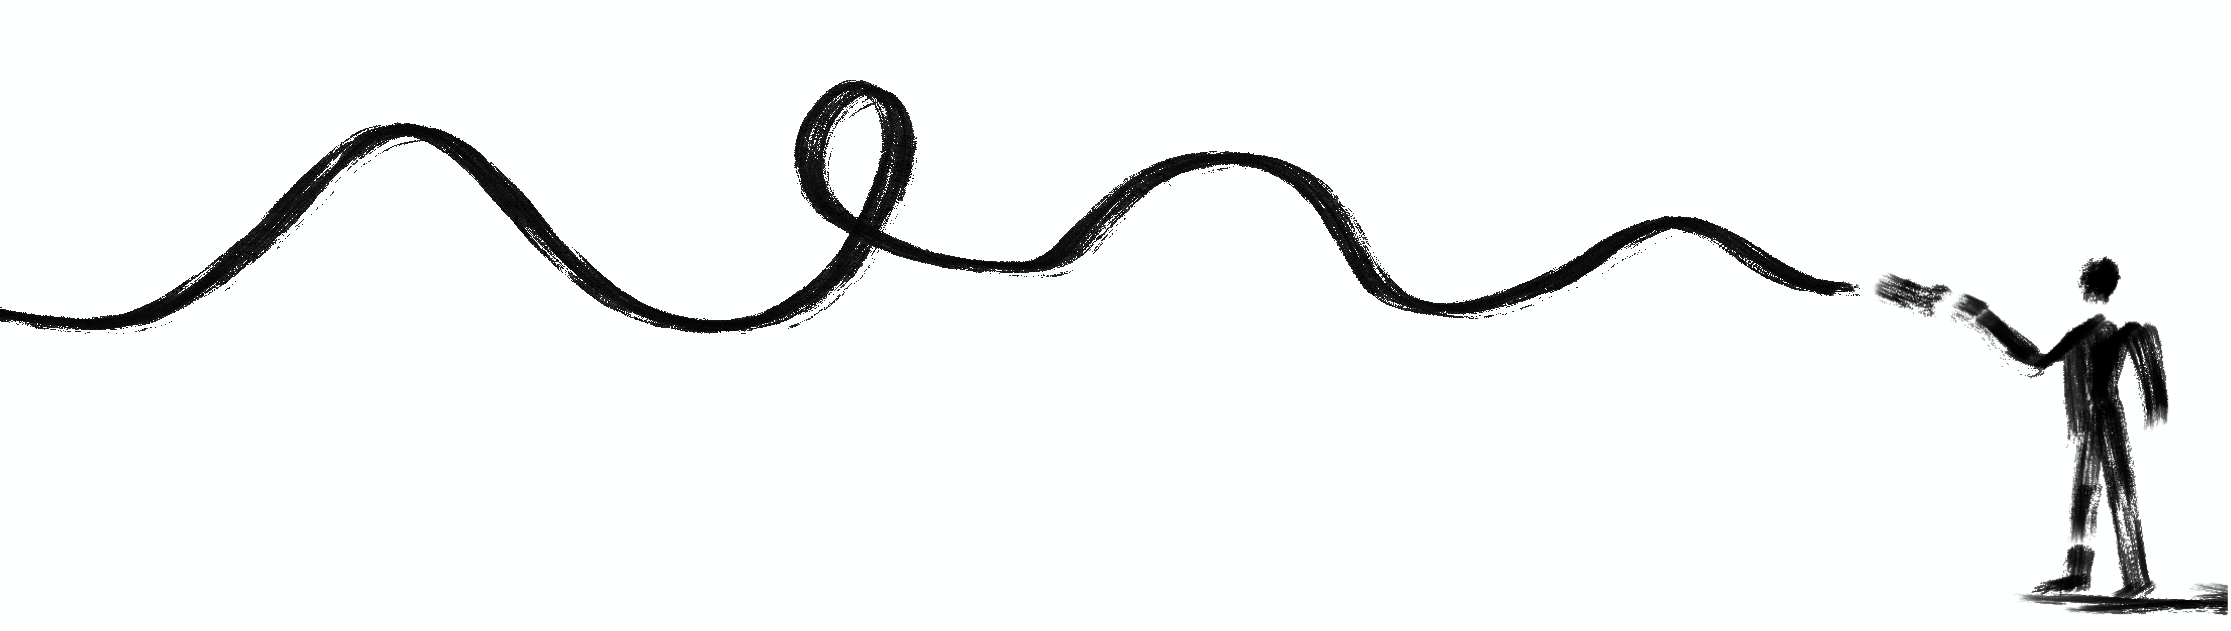
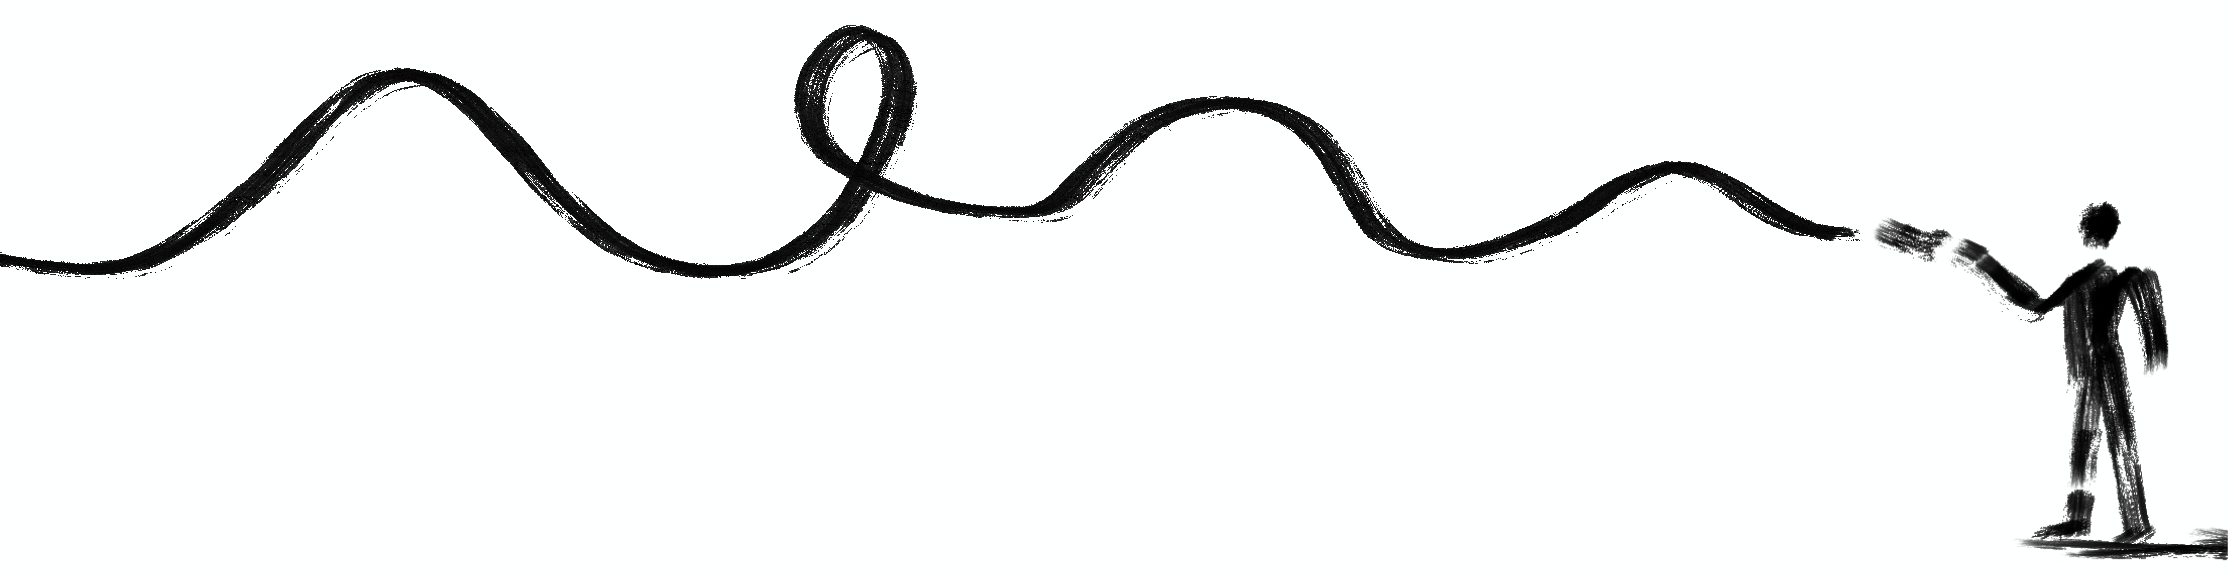
Fix landing image

Changed region(s): [[0.0, 0.0312, 1.0, 1.0]]

diff --git a/index.html b/index.html
@@ -346,12 +346,12 @@
     <header class="relative bg-white pb-16 sm:pb-24">
         <!-- Illustration → always full‑width, fixed height on small screens  -->
         <div class="no-select">
-            <img src="./assets/man_drawing.png" alt="Workshop Illustration" class="w-full object-cover h-56 sm:h-72 md:h-[28rem]" />
+            <img src="./assets/man_drawing.png" alt="Workshop Illustration" class="w-full max-h-[28rem] object-contain mx-auto" />
         </div>
 
 
         <!-- Headline content → centered overlay  -->
-        <div class="container mx-auto px-4 sm:px-6 relative -mt-20 sm:-mt-48">
+        <div class="container mx-auto px-4 sm:px-6 relative -mt-8 sm:-mt-16 md:-mt-24 lg:-mt-36">
             <div class="max-w-4xl mx-auto text-center">
                 <!-- <div class="max-w-4xl mx-auto text-center relative mt-10"> -->
                 <!-- Tagline -->
@@ -642,9 +642,9 @@
                                 <h3 class="handwritten text-center sm:text-left text-xl font-bold text-gray-900 mb-2">Block 1: Cognitive and Perceptual Foundations</h3>
                                 <p class="text-gray-600 mb-3">Three 30-minute talks exploring the psychological and cognitive aspects of drawing</p>
                                 <div class="text-base text-gray-600 space-y-1 mb-3">
-                                    <p>• Judith E. Fan - External Representations and Cognition</p>
-                                    <p>• Kartik Chandra - Foundations of Non-Photorealistic Depiction</p>
-                                    <p>• Aaron Hertzmann - Perception and Visual Representation</p>
+                                    <p>• Judith E. Fan - <i><b>Drawing as a versatile cognitive tool</b></i> </p>
+                                    <p>• Kartik Chandra - <i><b>Foundations of Non-Photorealistic Depiction</b></i></p>
+                                    <p>• Aaron Hertzmann - <i><b>A Theory of Perspective</b></i> </p>
                                 </div>
                                 <p class="text-gray-500 mb-3">10-minute Q&A and Discussion</p>
                             </div>
@@ -658,9 +658,9 @@
                                 <h3 class="handwritten text-center sm:text-left text-xl font-bold text-gray-900 mb-2">Block 2: Computational Tools and Generative Models</h3>
                                 <p class="text-gray-600 mb-3">Three 30-minute talks on AI-driven sketching and co-creative systems</p>
                                 <div class="text-base text-gray-600 space-y-1 mb-3">
-                                    <p>• Maneesh Agrawala - Visual Communication and Design Principles</p>
-                                    <p>• Hongbo Fu - Interactive Sketching Systems</p>
-                                    <p>• Peter Schaldenbrand - Robotic Creativity and Co-Creation</p>
+                                    <p>• Maneesh Agrawala - <i><b>Making is Decision Making</b></i></p>
+                                    <p>• Hongbo Fu - <i><b>Interactive Sketching Systems</b></i></p>
+                                    <p>• Peter Schaldenbrand - <i><b>Robotic Creativity and Co-Creation</b></i></p>
                                 </div>
                                 <p class="text-gray-500 mb-3">10-minute Q&A and Discussion</p>
                             </div>
